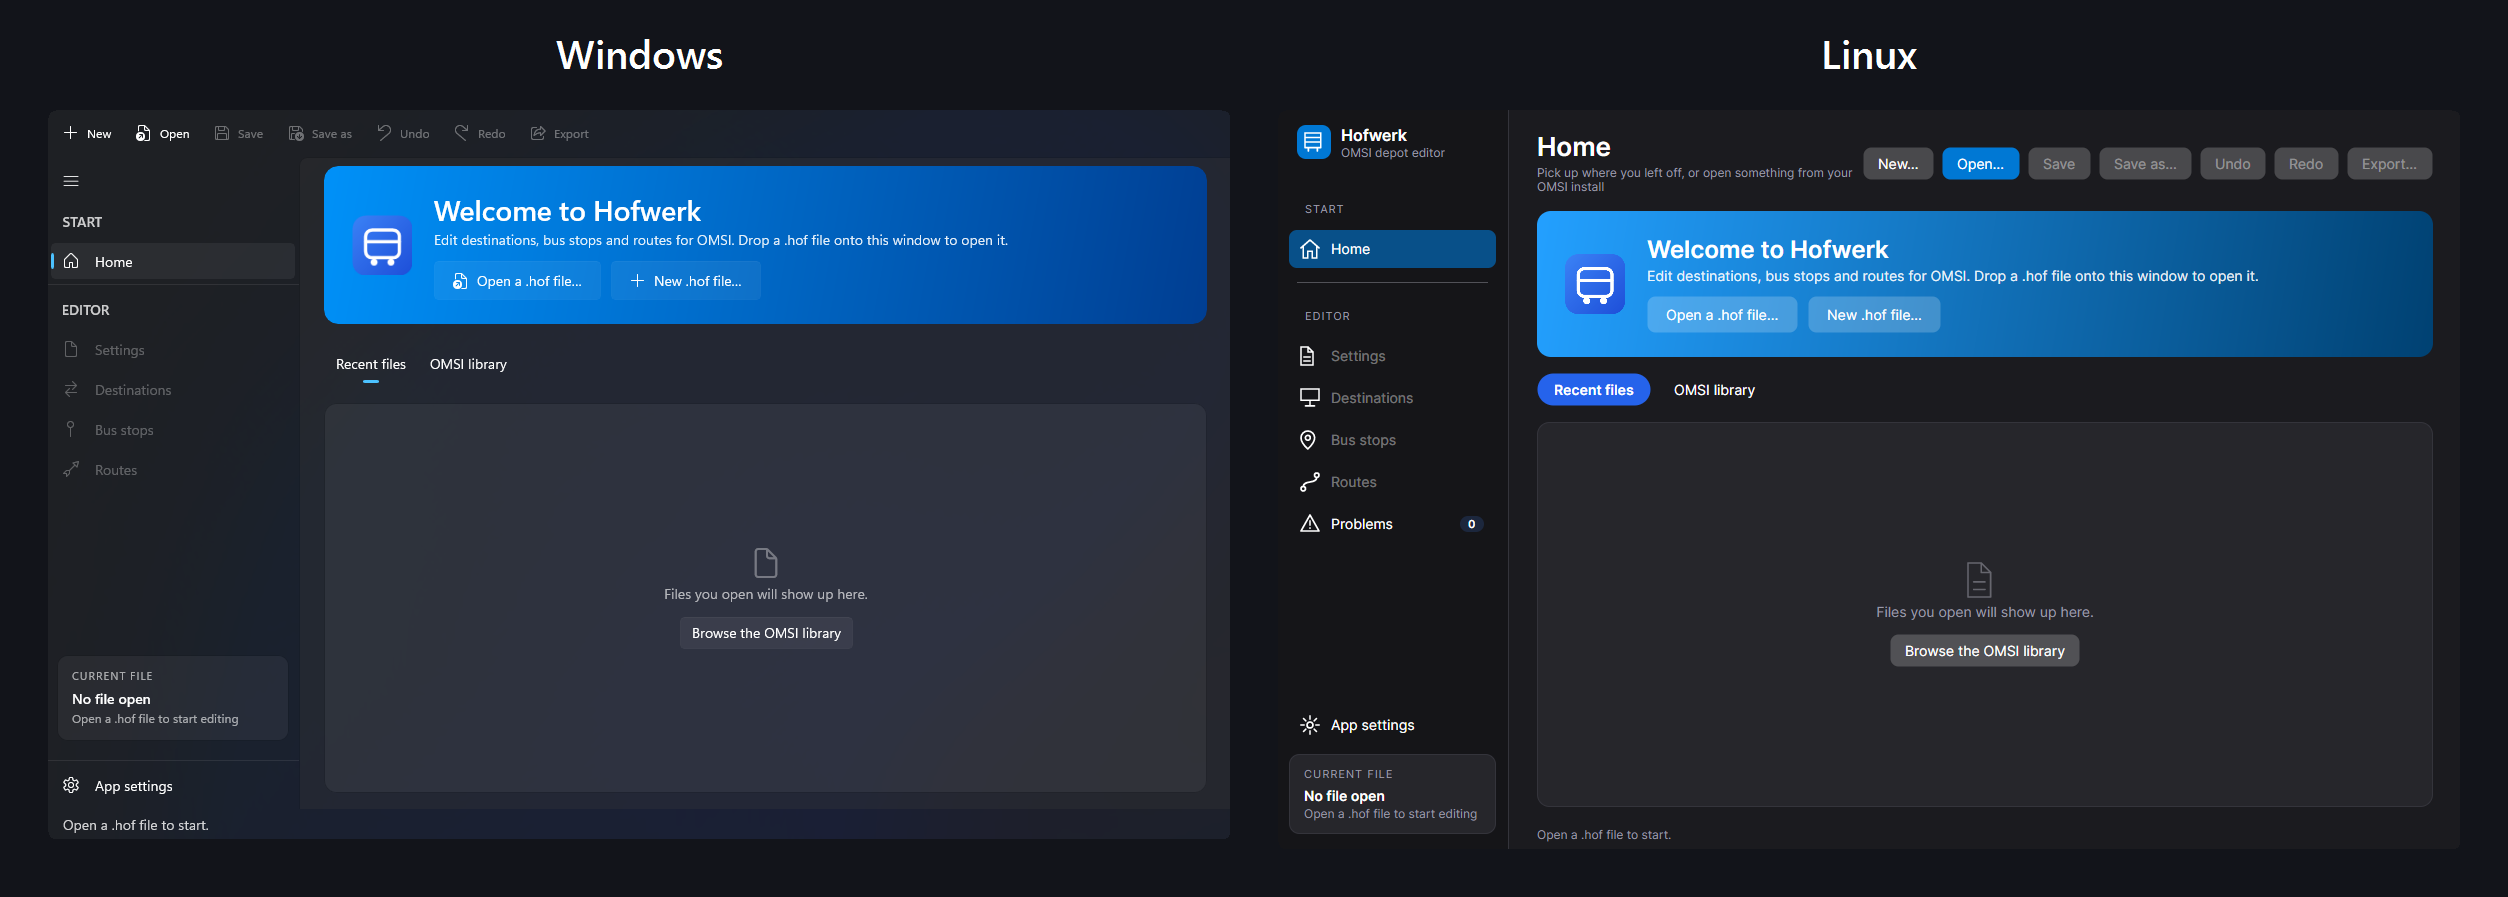
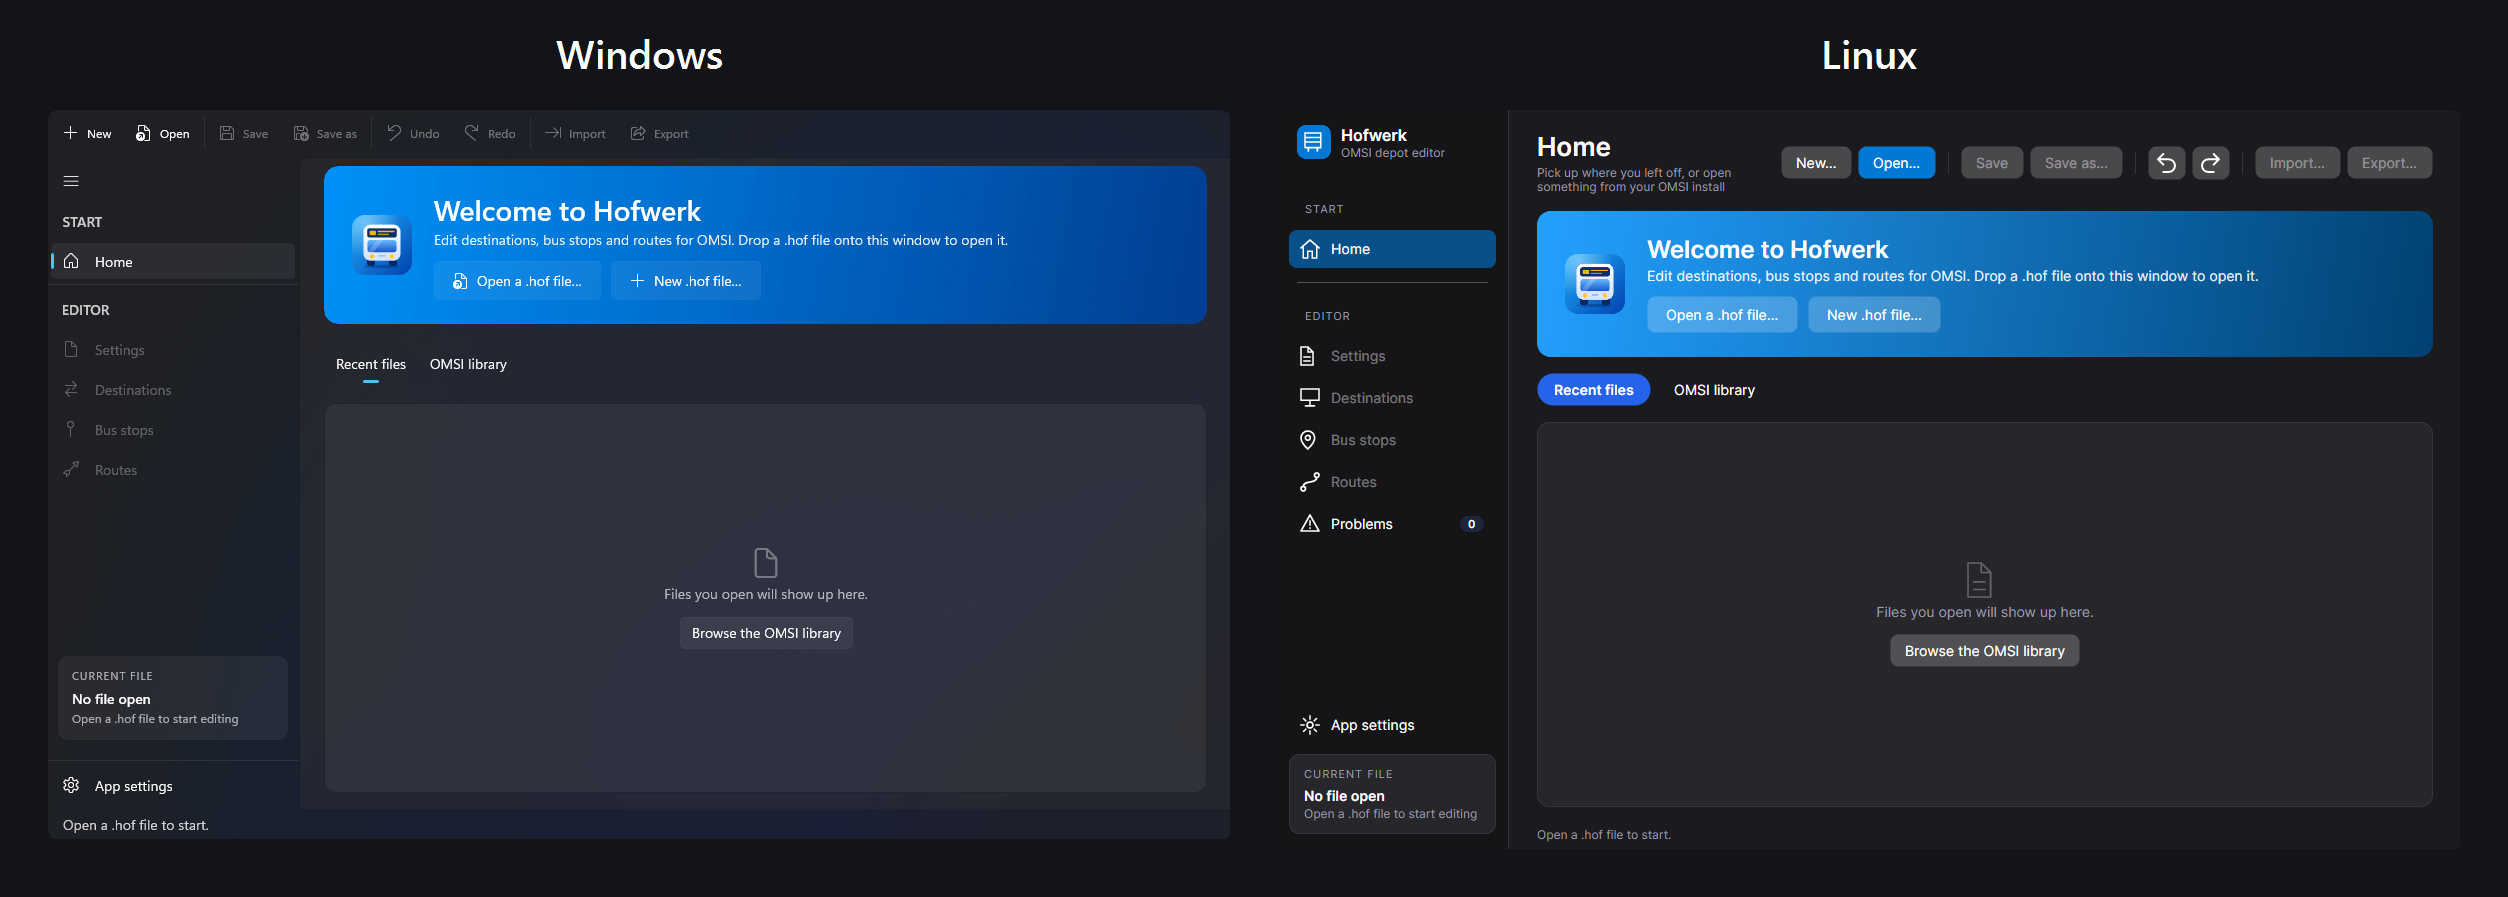
CI runs only for code changes and cancels older runs; steadier timing tests; new Windows and Linux picture

diff --git a/tests/Hofwerk.Core.Tests/DataFolderTests.cs b/tests/Hofwerk.Core.Tests/DataFolderTests.cs
@@ -1,0 +1,41 @@
+using Hofwerk.Core;
+
+namespace Hofwerk.Core.Tests;
+
+[Trait("Area", "App")]
+public class DataFolderTests : IDisposable
+{
+    readonly string _dir = Path.Combine(Path.GetTempPath(), "hofwerk-datadir-" + Guid.NewGuid().ToString("N"));
+    readonly string? _before = Environment.GetEnvironmentVariable("HOFWERK_DATA_DIR");
+
+    public void Dispose()
+    {
+        Environment.SetEnvironmentVariable("HOFWERK_DATA_DIR", _before);
+        try { Directory.Delete(_dir, true); } catch (IOException) { }
+    }
+
+    [Fact]
+    public void With_HOFWERK_DATA_DIR_set_the_settings_and_the_recent_files_live_there_instead_of_in_the_real_folder()
+    {
+        Environment.SetEnvironmentVariable("HOFWERK_DATA_DIR", _dir);
+
+        var settings = AppSettings.Load();
+        settings.Theme = "Dark";
+        settings.Save();
+
+        Assert.Equal(Path.Combine(_dir, "settings.json"), settings.FilePath);
+        Assert.Equal(Path.Combine(_dir, "recent.json"), settings.RecentFilesPath);
+        Assert.True(File.Exists(Path.Combine(_dir, "settings.json")));
+        Assert.Equal("Dark", AppSettings.Load().Theme);
+    }
+
+    [Fact]
+    public void Without_it_the_real_folder_is_used_as_before()
+    {
+        Environment.SetEnvironmentVariable("HOFWERK_DATA_DIR", null);
+
+        var settings = AppSettings.Load();
+
+        Assert.Equal(Path.Combine(Environment.GetFolderPath(Environment.SpecialFolder.ApplicationData), "Hofwerk", "settings.json"), settings.FilePath);
+    }
+}

diff --git a/tests/Hofwerk.Core.Tests/HistoryTests.cs b/tests/Hofwerk.Core.Tests/HistoryTests.cs
@@ -103,9 +103,9 @@ public class HistoryTests : IDisposable
         var vm = Open(settleAtOnce: false);
         vm.EditSettleTime = TimeSpan.FromMilliseconds(30);
         vm.Name = "A";
-        Thread.Sleep(250);
+        Assert.True(WaitFor(() => vm.UndoSteps == 1, 10_000));    // waits for the step itself, not for a time: a slow computer is slower
         vm.Name = "B";
-        Thread.Sleep(250);
+        Assert.True(WaitFor(() => vm.UndoSteps == 2, 10_000));
 
         vm.Undo();
         Assert.Equal("A", vm.Name);                         // two pauses, two steps
@@ -295,12 +295,12 @@ public class HistoryTests : IDisposable
     public void Each_new_change_restarts_the_autosave_wait()
     {
         var vm = Open(configure: s => s.AutoSave = true);
-        vm.AutoSaveDelayOverride = TimeSpan.FromMilliseconds(400);
+        vm.AutoSaveDelayOverride = TimeSpan.FromMilliseconds(1500);    // far longer than the gaps between the edits, even on a slow computer
 
-        for (int i = 0; i < 5; i++) { vm.Name = $"Typing {i}"; Thread.Sleep(120); }
+        for (int i = 0; i < 5; i++) { vm.Name = $"Typing {i}"; Thread.Sleep(150); }
         Assert.True(vm.IsDirty);                    // still typing, so not yet
 
-        Assert.True(WaitFor(() => !vm.IsDirty));
+        Assert.True(WaitFor(() => !vm.IsDirty, 10_000));
     }
 
     [Fact]

diff --git a/src/Hofwerk.Core/AppSettings.cs b/src/Hofwerk.Core/AppSettings.cs
@@ -9,8 +9,15 @@ public sealed class AppSettings
 {
     [JsonIgnore] string _path = DefaultPath;
 
-    static string DefaultPath => Path.Combine(
-        Environment.GetFolderPath(Environment.SpecialFolder.ApplicationData), "Hofwerk", "settings.json");
+    /// <summary>
+    /// The folder with the settings and the recent files list. Normally %APPDATA%\Hofwerk (~/.config/Hofwerk on Linux); starting Hofwerk with
+    /// HOFWERK_DATA_DIR set to a folder uses that folder instead, which is how pictures and tests run without touching the real ones.
+    /// </summary>
+    static string DataFolder => Environment.GetEnvironmentVariable("HOFWERK_DATA_DIR") is { Length: > 0 } folder
+        ? folder
+        : Path.Combine(Environment.GetFolderPath(Environment.SpecialFolder.ApplicationData), "Hofwerk");
+
+    static string DefaultPath => Path.Combine(DataFolder, "settings.json");
 
     /// <summary>The string preset whose slot names the editor shows.</summary>
     public string ActivePresetId { get; set; } = PresetLibrary.DefaultId;

diff --git a/tests/README.md b/tests/README.md
@@ -33,8 +33,19 @@ Every test class has `[Trait("Area", "...")]`. Put a new class in the area it be
 save and restore a real installation on the machine (`installer/protect-install.ps1`) and the crash log, so they are safe to run
 on a computer that has Hofwerk installed.
 
+## Running Hofwerk on its own data
+
+Start Hofwerk with `HOFWERK_DATA_DIR` set to a folder and it keeps its settings and its recent files list there instead of in
+`%APPDATA%\Hofwerk`. Useful for taking pictures or trying things without touching the real ones:
+
+```powershell
+$env:HOFWERK_DATA_DIR = "$env:TEMP\hofwerk-try"
+dotnet run --project src/Hofwerk.WinUI -r win-x64
+```
+
 ## Writing a test
 
 - Use a temporary folder under `Path.GetTempPath()` and delete it in `Dispose()`; never touch the real `%APPDATA%\Hofwerk`.
 - Use a fake `HttpMessageHandler` for anything online; no test may reach the network.
-- Wait for something to happen by polling, not by a fixed sleep.
+- Wait for something to happen by polling for it, not by a fixed sleep: a CI computer can be many times slower than yours, and a test that
+  "waits long enough" will fail there now and then. (A sleep is fine for checking that something did *not* happen.)
